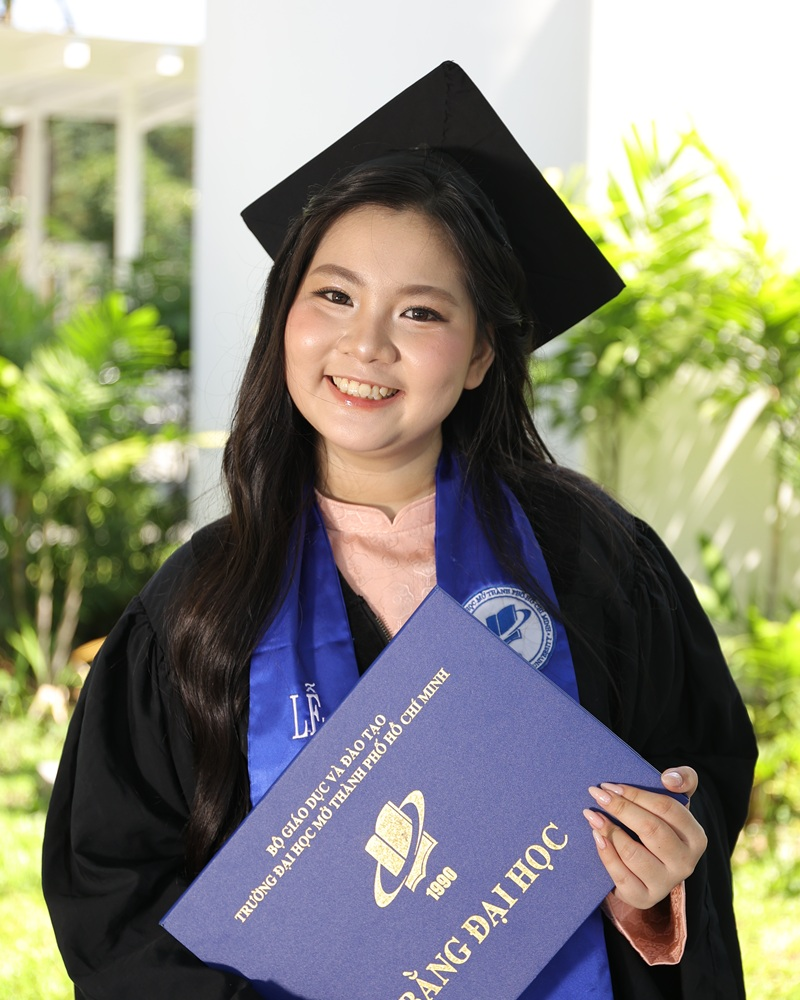
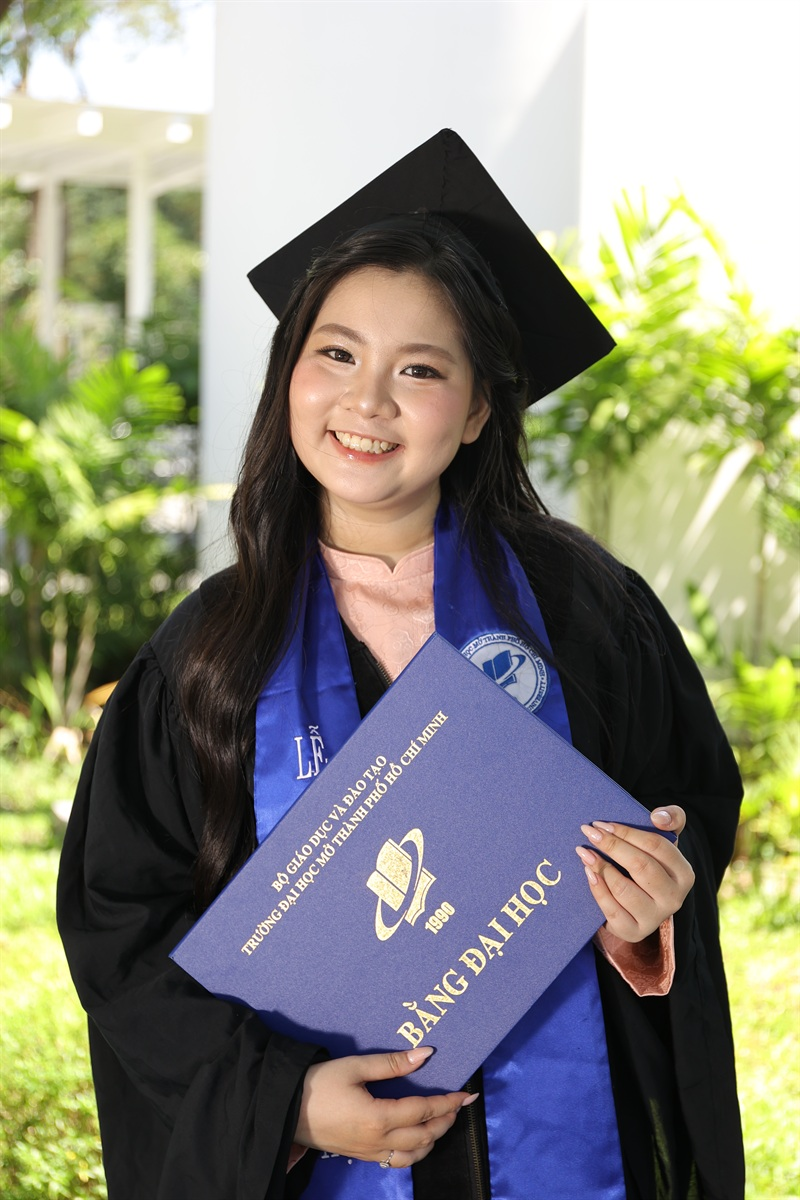
gggg

diff --git a/script.js b/script.js
@@ -12,27 +12,27 @@
 const GUEST_DATA = {
   "Nhi": {
     salutation: "Gửi Nhi thương mến,",
-    message: "Cảm ơn Nhi vì đã luôn ở bên cạnh, lắng nghe và chia sẻ cùng Tú qua từng giai đoạn của thời sinh viên. Những buổi chuyện trò, những khoảnh khắc vui buồn có Nhi đồng hành đã làm cho những năm tháng thanh xuân của Tú trở nên trọn vẹn và đáng nhớ hơn bao giờ hết.\n\nSáng Thứ Bảy, ngày 28.11, mình sẽ chính thức khép lại hành trình 4 năm tại OU. Ngọc Tú rất mong được gặp mọi người, cùng chung vui và lưu lại thật nhiều khoảnh khắc đáng nhớ nhé! ♡"
+    message: "Cảm ơn Nhi vì đã luôn ở bên cạnh, lắng nghe và chia sẻ cùng Tú qua từng giai đoạn của thời sinh viên. Những buổi chuyện trò, những khoảnh khắc vui buồn có Nhi đồng hành đã làm cho những năm tháng thanh xuân của Tú trở nên trọn vẹn và đáng nhớ hơn bao giờ hết.\n\nSáng Thứ Bảy, ngày 28.11, mình sẽ chính thức khép lại hành trình 4 năm tại OU. Ngọc Tú rất mong được gặp mọi người, cùng chung vui và lưu lại thật nhiều khoảnh khắc đáng nhớ nhé ♡"
   },
   "Khánh": {
     salutation: "Gửi Khánh thương mến,",
-    message: "Bốn năm đại học trôi qua thật nhanh với biết bao kỷ niệm và thử thách. Cảm ơn Khánh vì đã luôn là một người bạn tuyệt vời, luôn đồng hành và tiếp thêm năng lượng tích cực cho Tú trong suốt chặng đường vừa qua.\n\nSáng Thứ Bảy, ngày 28.11, mình sẽ chính thức khép lại hành trình 4 năm tại OU. Ngọc Tú rất mong được gặp mọi người, cùng chung vui và lưu lại thật nhiều khoảnh khắc đáng nhớ nhé! ♡"
+    message: "Bốn năm đại học trôi qua thật nhanh với biết bao kỷ niệm và thử thách. Cảm ơn Khánh vì đã luôn là một người bạn tuyệt vời, luôn đồng hành và tiếp thêm năng lượng tích cực cho Tú trong suốt chặng đường vừa qua.\n\nSáng Thứ Bảy, ngày 28.11, mình sẽ chính thức khép lại hành trình 4 năm tại OU. Ngọc Tú rất mong được gặp mọi người, cùng chung vui và lưu lại thật nhiều khoảnh khắc đáng nhớ nhé ♡"
   },
   "Phát": {
     salutation: "Gửi Phát thương mến,",
-    message: "Nhìn lại chặng đường 4 năm đại học đã qua, Tú thật sự biết ơn vì luôn có Phát đồng hành và ủng hộ. Cảm ơn những lần hỗ trợ nhiệt tình, những cuộc trò chuyện và sự chân thành mà Phát đã dành cho Tú.\n\nSáng Thứ Bảy, ngày 28.11, mình sẽ chính thức khép lại hành trình 4 năm tại OU. Ngọc Tú rất mong được gặp mọi người, cùng chung vui và lưu lại thật nhiều khoảnh khắc đáng nhớ nhé! ♡"
+    message: "Nhìn lại chặng đường 4 năm đại học đã qua, Tú thật sự biết ơn vì luôn có Phát đồng hành và ủng hộ. Cảm ơn những lần hỗ trợ nhiệt tình, những cuộc trò chuyện và sự chân thành mà Phát đã dành cho Tú.\n\nSáng Thứ Bảy, ngày 28.11, mình sẽ chính thức khép lại hành trình 4 năm tại OU. Ngọc Tú rất mong được gặp mọi người, cùng chung vui và lưu lại thật nhiều khoảnh khắc đáng nhớ nhé ♡"
   },
   "Trang": {
     salutation: "Gửi Trang yêu quý,",
-    message: "Cảm ơn Trang vì đã là một phần thật dịu dàng và ấm áp trong những năm tháng đại học của Tú. Cảm ơn những sẻ chia, những nụ cười và sự thấu hiểu mà Trang luôn dành cho Tú suốt thời gian qua.\n\nSáng Thứ Bảy, ngày 28.11, mình sẽ chính thức khép lại hành trình 4 năm tại OU. Ngọc Tú rất mong được gặp mọi người, cùng chung vui và lưu lại thật nhiều khoảnh khắc đáng nhớ nhé! ♡"
+    message: "Cảm ơn Trang vì đã là một phần thật dịu dàng và ấm áp trong những năm tháng đại học của Tú. Cảm ơn những sẻ chia, những nụ cười và sự thấu hiểu mà Trang luôn dành cho Tú suốt thời gian qua.\n\nSáng Thứ Bảy, ngày 28.11, mình sẽ chính thức khép lại hành trình 4 năm tại OU. Ngọc Tú rất mong được gặp mọi người, cùng chung vui và lưu lại thật nhiều khoảnh khắc đáng nhớ nhé ♡"
   },
   "Duy": {
     salutation: "Gửi Duy thương mến,",
-    message: "Thấm thoát mà 4 năm đại học đã đến đích rồi. Cảm ơn Duy vì đã luôn ở đó, luôn là người bạn đồng hành đáng tin cậy và chia sẻ cùng Tú qua từng mùa thi, từng bài thuyết trình và những deadline căng thẳng.\n\nSáng Thứ Bảy, ngày 28.11, mình sẽ chính thức khép lại hành trình 4 năm tại OU. Ngọc Tú rất mong được gặp mọi người, cùng chung vui và lưu lại thật nhiều khoảnh khắc đáng nhớ nhé! ♡"
+    message: "Thấm thoát mà 4 năm đại học đã đến đích rồi. Cảm ơn Duy vì đã luôn ở đó, luôn là người bạn đồng hành đáng tin cậy và chia sẻ cùng Tú qua từng mùa thi, từng bài thuyết trình và những deadline căng thẳng.\n\nSáng Thứ Bảy, ngày 28.11, mình sẽ chính thức khép lại hành trình 4 năm tại OU. Ngọc Tú rất mong được gặp mọi người, cùng chung vui và lưu lại thật nhiều khoảnh khắc đáng nhớ nhé ♡"
   },
   "Thuận": {
     salutation: "Gửi Thuận thương mến,",
-    message: "Cảm ơn Thuận vì đã luôn đồng hành, giúp đỡ và mang lại thật nhiều niềm vui trong suốt những năm tháng thanh xuân vừa qua của Tú. Nhờ có những người bạn như Thuận mà chặng đường đại học của Tú đã trở nên vô cùng ý nghĩa và nhiều màu sắc.\n\nSáng Thứ Bảy, ngày 28.11, mình sẽ chính thức khép lại hành trình 4 năm tại OU. Ngọc Tú rất mong được gặp mọi người, cùng chung vui và lưu lại thật nhiều khoảnh khắc đáng nhớ nhé! ♡"
+    message: "Cảm ơn Thuận vì đã luôn đồng hành, giúp đỡ và mang lại thật nhiều niềm vui trong suốt những năm tháng thanh xuân vừa qua của Tú. Nhờ có những người bạn như Thuận mà chặng đường đại học của Tú đã trở nên vô cùng ý nghĩa và nhiều màu sắc.\n\nSáng Thứ Bảy, ngày 28.11, mình sẽ chính thức khép lại hành trình 4 năm tại OU. Ngọc Tú rất mong được gặp mọi người, cùng chung vui và lưu lại thật nhiều khoảnh khắc đáng nhớ nhé ♡"
   }
 };
 
@@ -186,21 +186,27 @@ function initMobileBookFlip() {
   }
 }
 
-// ================= 3. BỘ LỌC ẢO NỘI DUNG TIÊU CỰC / THÔ TỤC =================
+// ================= 3. BỘ LỌC ẢO NỘI DUNG TIÊU CỰC & CHỐNG HATERS (MULTI-LAYER ANTI-HATER SHIELD) =================
 function isContentInappropriate(text) {
   if (!text) return false;
+
+  // 1. Chuẩn hóa chuỗi (bỏ dấu tiếng Việt, viết thường)
   const raw = text.toLowerCase();
   const normalized = raw
     .normalize("NFD")
     .replace(/[\u0300-\u036f]/g, "")
     .replace(/[đĐ]/g, "d");
 
+  // Xóa các ký tự phân tách haters hay cố tình chèn (ví dụ: d.m, d_m, d-m, c.h.o, v.c.l)
+  const collapsed = normalized.replace(/[\s\.\-_,\*#@!~;:+=\/\\|]+/g, "");
+
+  // 2. Danh sách mẫu regex từ ngữ tiêu cực, thô tục, chửi bới, trù dập
   const toxicPatterns = [
-    /\b(dm|dcm|đm|đcm|vcl|vkl|vl|cl|cc|clm|đụ|địt|dit|lồn|lon|cặc|cac|buồi|buoi|dái|dai|đéo|deo)\b/i,
-    /\b(chó|cho|súc vật|suc vat|khốn nạn|khon nan|óc chó|oc cho)\b/i,
-    /\b(đồ ngu|ngu ngốc|ngu dốt|thằng ngu|con ngu|đần|dan don|hãm|ham lol|ham lon)\b/i,
-    /\b(cút|cut di|thần kinh|than kinh|rác rưởi|rac ruoi|xấu xí|chết đi|chet)\b/i,
-    /\b(fuck|shit|bitch|asshole|cunt|dick|pussy|idiot|stupid)\b/i
+    /\b(dm|dcm|dkm|đm|đcm|đkm|vcl|vkl|vl|cl|cc|clm|đụ|địt|dit|lồn|lon|cặc|cac|buồi|buoi|dái|dai|đéo|deo|me may|ba may|con me)\b/i,
+    /\b(chó|cho|súc vật|suc vat|khốn nạn|khon nan|óc chó|oc cho|đồ điên|do dien|thần kinh|than kinh)\b/i,
+    /\b(đồ ngu|ngu ngốc|ngu dốt|thằng ngu|con ngu|đần|dan don|hãm|ham lol|ham lon|chết|chet di|bien di|cút|cut di)\b/i,
+    /\b(rác rưởi|rac ruoi|xấu xí|xau xi|mặt dày|mat day|vô duyên|vo duyen|đĩ|di thap|cave|pho)\b/i,
+    /\b(fuck|shit|bitch|asshole|cunt|dick|pussy|idiot|stupid|bastard)\b/i
   ];
 
   for (const pattern of toxicPatterns) {
@@ -208,6 +214,23 @@ function isContentInappropriate(text) {
       return true;
     }
   }
+
+  // 3. Quét các từ khóa bị nén (chống chiêu lách luật haters chèn dấu chấm/khoảng trắng)
+  const collapsedKeywords = [
+    "dm", "dcm", "dkm", "vcl", "vkl", "clm", "ditme", "duma", "du ma", "lonme",
+    "buoi", "cac", "cho", "sucvat", "khonnan", "occho", "dongu", "cutdi", "biendi"
+  ];
+  for (const kw of collapsedKeywords) {
+    if (collapsed.includes(kw)) {
+      return true;
+    }
+  }
+
+  // 4. Chặn spam ký tự vô nghĩa lặp lại quá 5 lần (ví dụ: aaaaaaa, ???????, !!!!!!!)
+  if (/(.)\1{5,}/.test(raw)) {
+    return true;
+  }
+
   return false;
 }
 

diff --git a/index.html b/index.html
@@ -44,7 +44,7 @@
                 <img src="./graduation_files/tu-polaroid-centered.jpg?v=rot90" alt="Nguyễn Ngọc Tú - Graduation 2026" class="polaroid-photo" loading="eager">
               </div>
               <div class="polaroid-caption">
-                <p class="polaroid-caption-text">A little moment to remember ♡</p>
+                <p class="polaroid-caption-text">A little moments to remember ♡</p>
               </div>
             </div>
           </div>
@@ -214,7 +214,7 @@
                 Cảm ơn mọi người đã đồng hành cùng Ngọc Tú, để những năm tháng thanh xuân này trở thành một dấu mốc thật đẹp và đáng nhớ. Mỗi người, mỗi mảnh ghép, mỗi kỷ niệm đều đã góp phần tạo nên một hành trình thật đáng nhớ tại OU.
               </p>
               <p class="letter-paragraph highlight-msg">
-                Sáng Thứ Bảy, ngày 28.11, mình sẽ chính thức khép lại hành trình 4 năm tại OU. Ngọc Tú rất mong được gặp mọi người, cùng chung vui và lưu lại thật nhiều khoảnh khắc đáng nhớ nhé! ♡
+                Sáng Thứ Bảy, ngày 28.11, mình sẽ chính thức khép lại hành trình 4 năm tại OU. Ngọc Tú rất mong được gặp mọi người, cùng chung vui và lưu lại thật nhiều khoảnh khắc đáng nhớ nhé ♡
               </p>
             </div>
 

diff --git a/style.css b/style.css
@@ -256,7 +256,7 @@ button, input, select, textarea {
 .polaroid-wrapper {
   position: relative;
   width: 100%;
-  max-width: clamp(250px, 68vw, 290px);
+  max-width: clamp(235px, 64vw, 275px);
   margin: 0 auto clamp(14px, 2.5vh, 20px);
   transform: rotate(-1deg);
   transition: transform 0.4s cubic-bezier(0.2, 0.8, 0.2, 1);
@@ -280,7 +280,7 @@ button, input, select, textarea {
 
 .photo-container {
   width: 100%;
-  aspect-ratio: 4/5;
+  aspect-ratio: 2/3;
   overflow: hidden;
   border-radius: 4px;
   background: #FFF5F8;
@@ -629,7 +629,7 @@ button, input, select, textarea {
 
 .letter-place-date {
   font-family: var(--font-editorial);
-  font-style: italic;
+  font-style: normal;
   font-size: clamp(14px, 3.7vw, 15.5px);
   color: var(--text-dark);
   line-height: 1.75;
@@ -689,7 +689,7 @@ button, input, select, textarea {
 
 .letter-signature {
   font-family: var(--font-editorial);
-  font-size: clamp(19px, 5vw, 23px);
+  font-size: clamp(16px, 4.2vw, 18.5px);
   font-weight: 700;
   color: var(--pink-accent);
   line-height: 1.3;
@@ -1170,7 +1170,7 @@ button, input, select, textarea {
 .farewell-main-title {
   font-family: var(--font-editorial);
   font-size: clamp(15.5px, 3.8vw, 17.5px);
-  font-weight: 500;
+  font-weight: 700;
   color: var(--pink-accent);
   letter-spacing: 0.06em;
   margin: 0;
